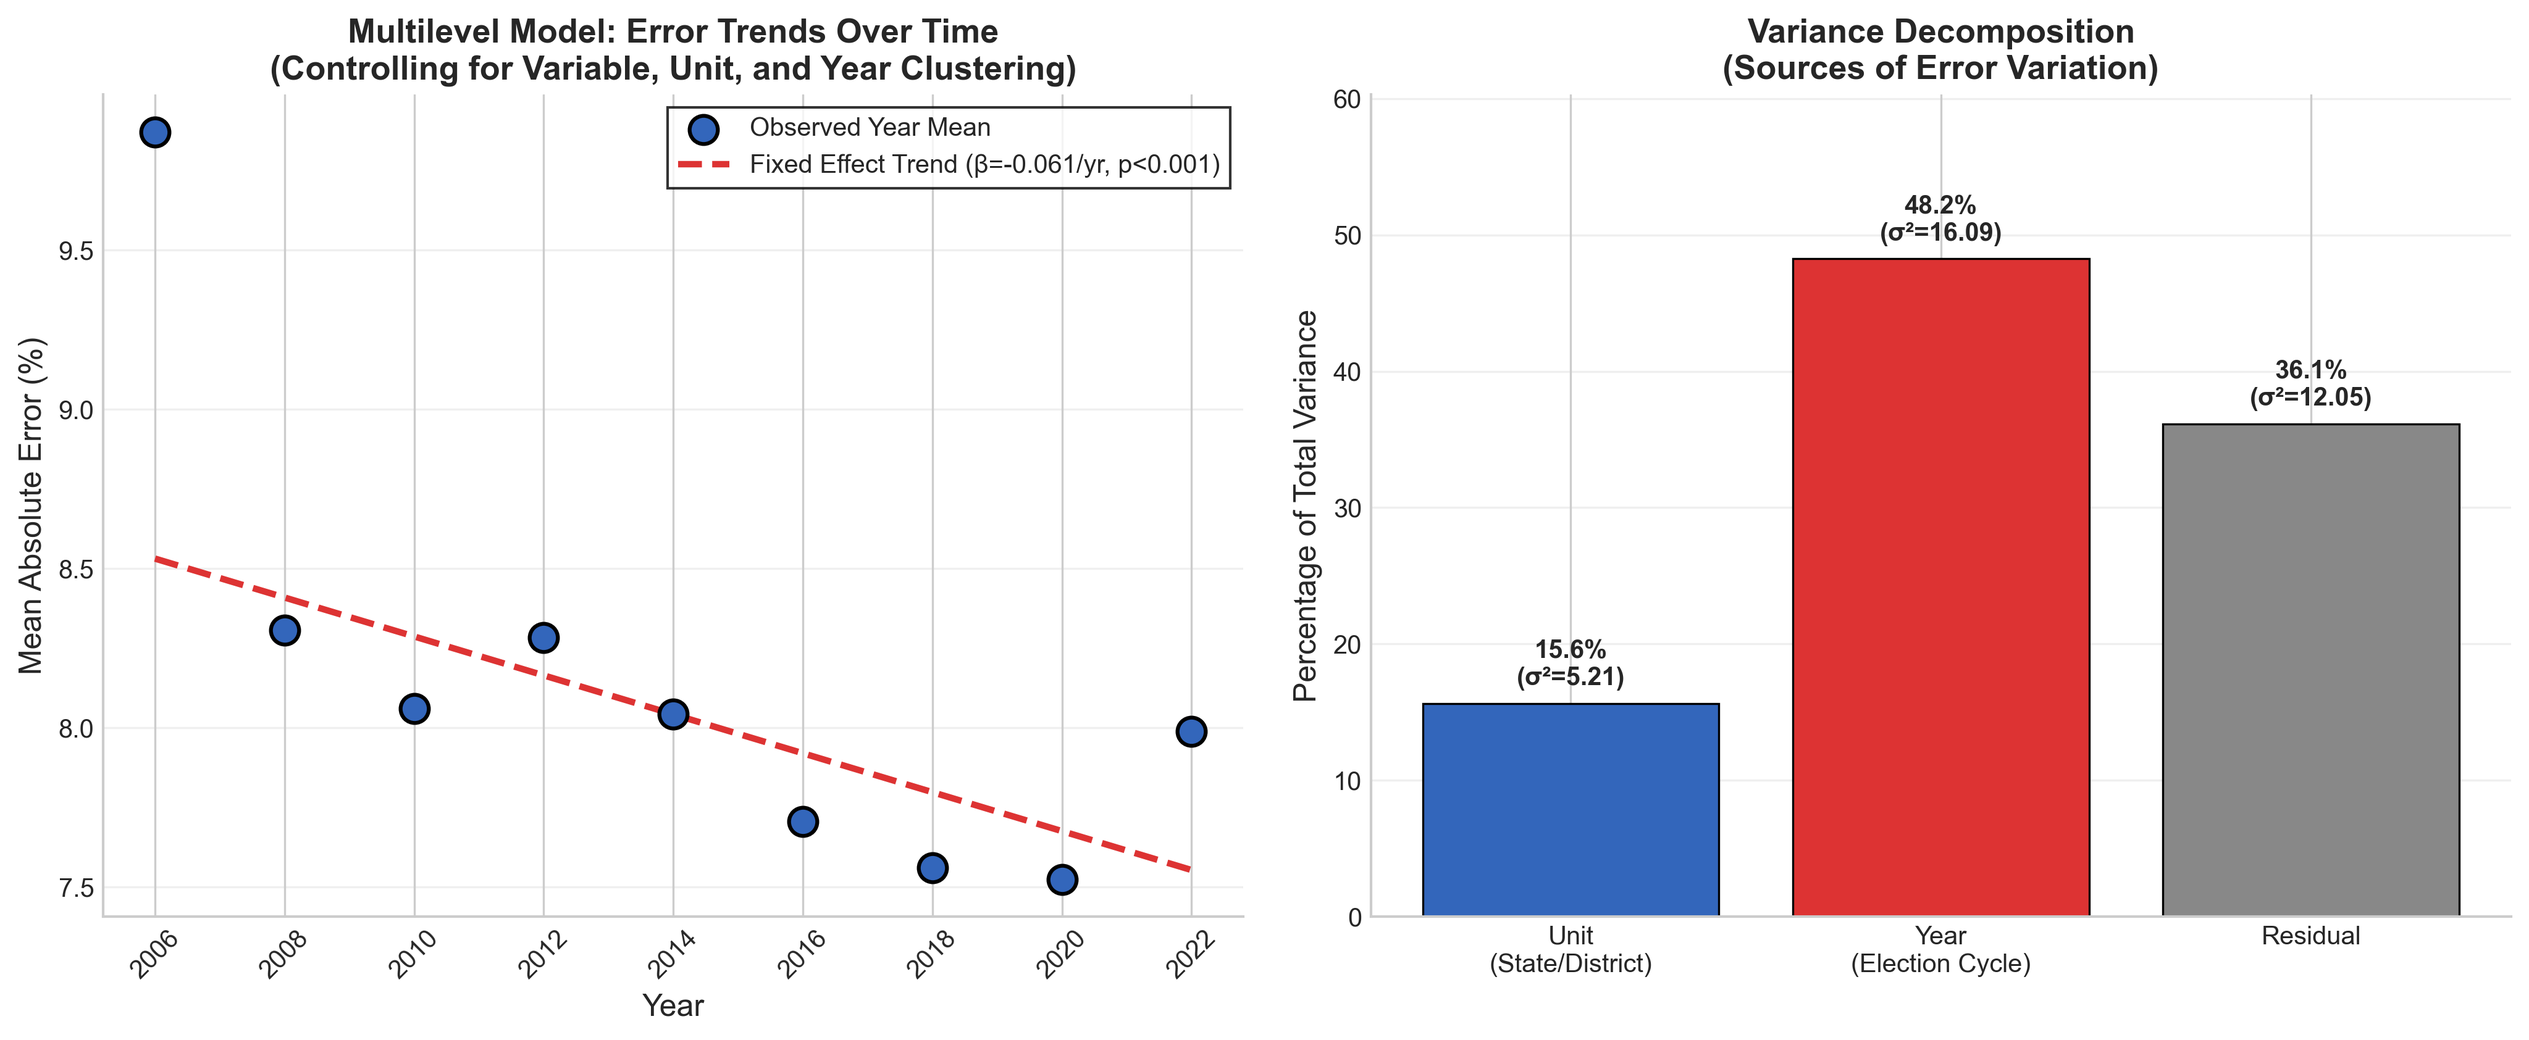
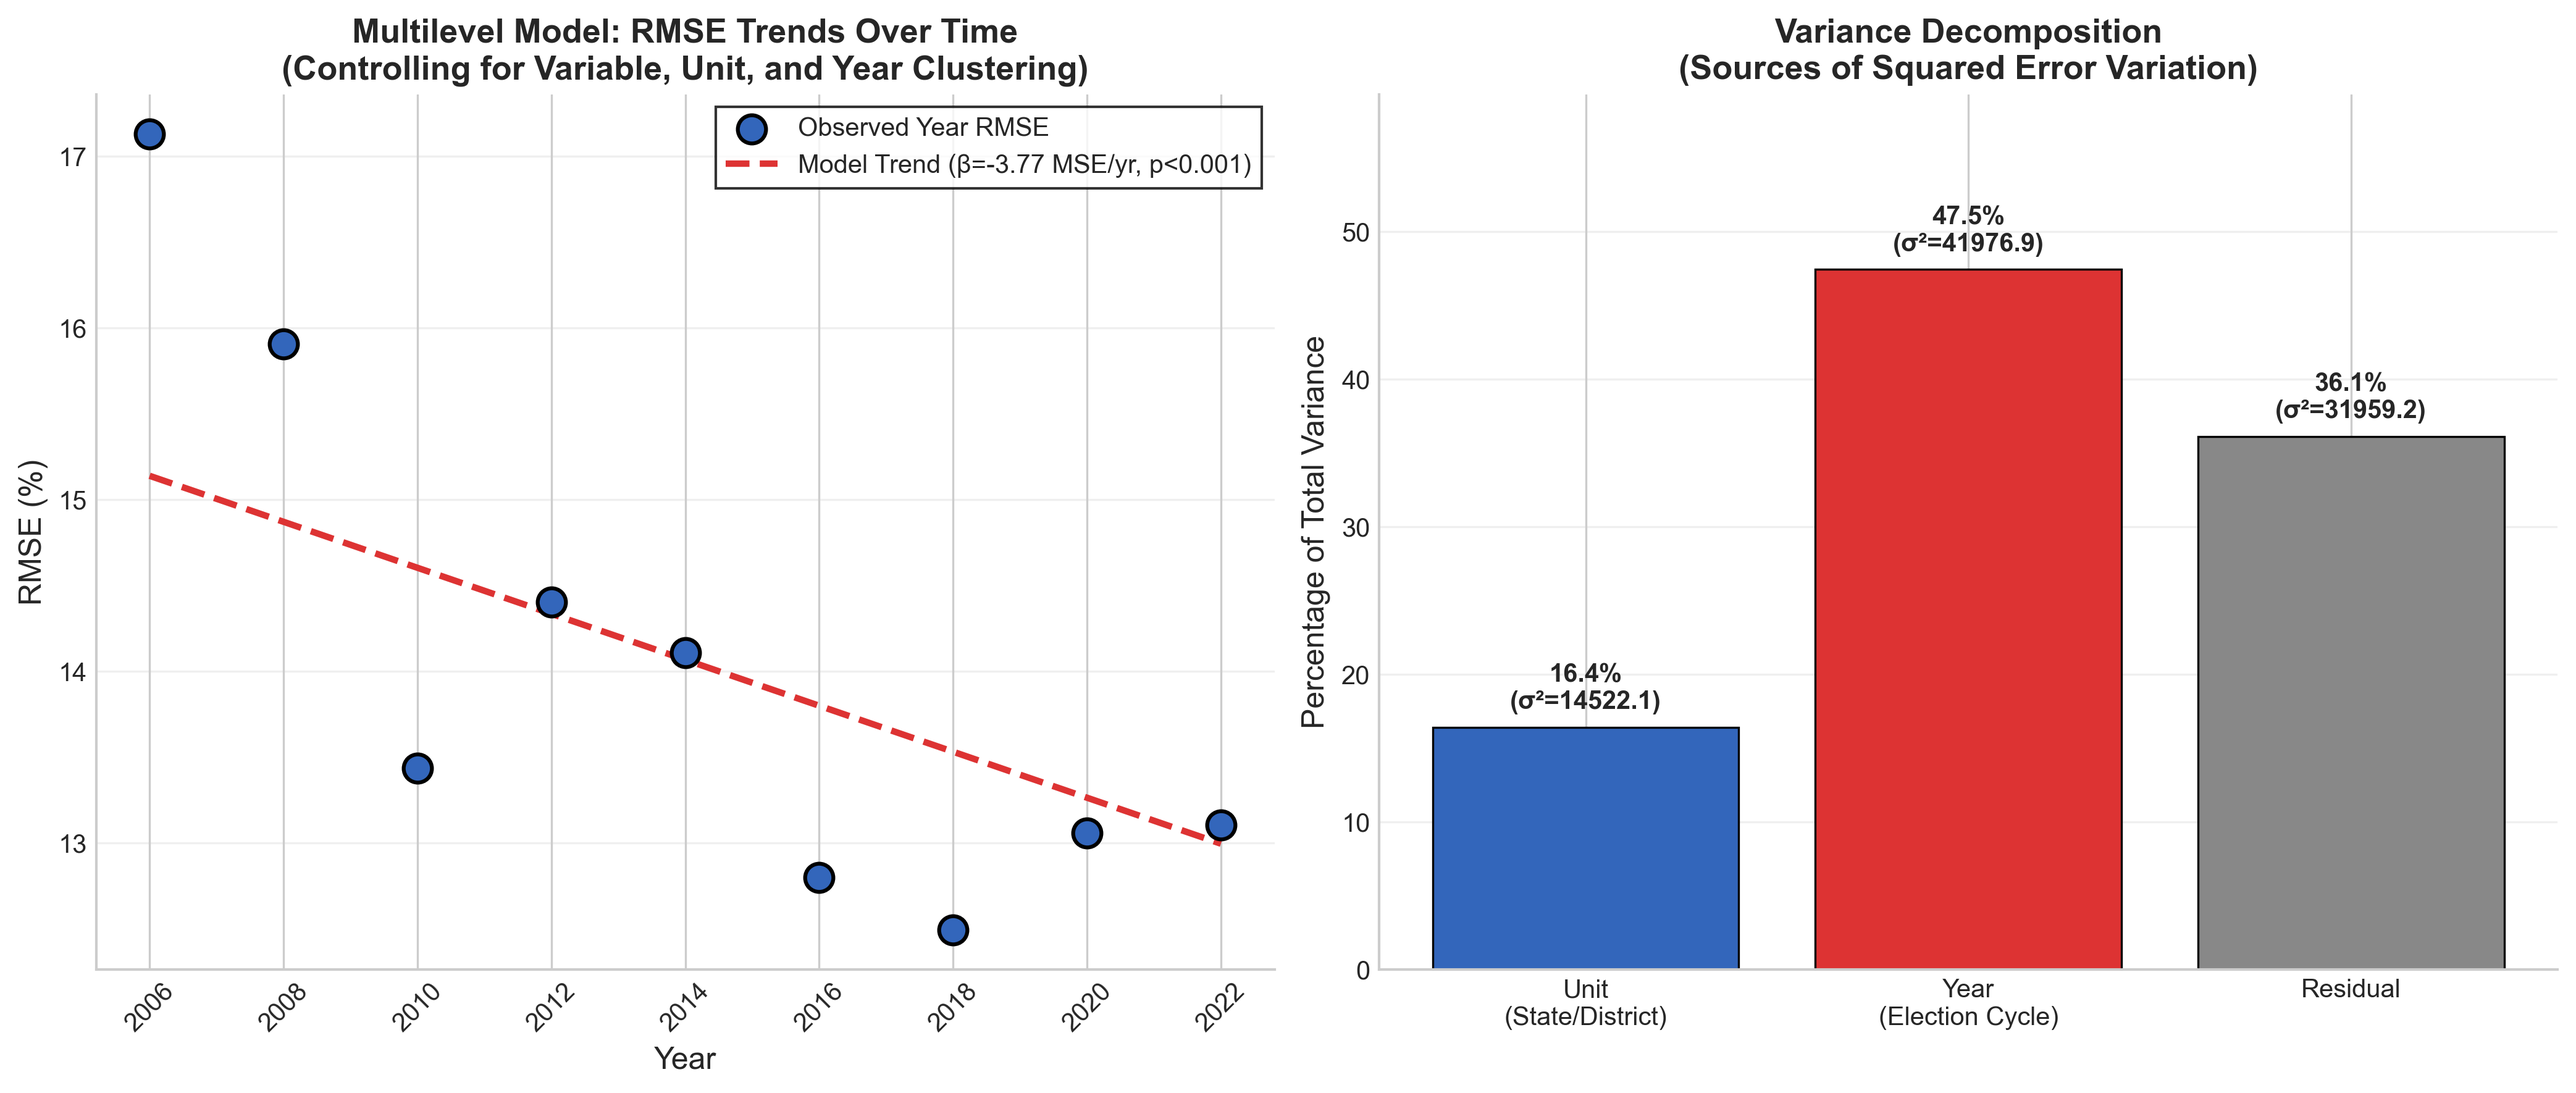
Fix multilevel model to use squared error (RMSE) instead of absolute error (MAE)

diff --git a/tables_and_figures/output/rmse_multilevel_trend.tex b/tables_and_figures/output/rmse_multilevel_trend.tex
@@ -1,7 +1,7 @@
 \begin{table}[!htbp]
 \centering
 \footnotesize
-\caption{Multilevel Model: Error Trends Over Time}
+\caption{Multilevel Model: Squared Error Trends Over Time}
 \label{tab:rmse_multilevel_trend}
 \begin{threeparttable}
 \begin{tabular}{lccc}
@@ -9,23 +9,23 @@
 Parameter & Estimate & SE & p-value \\
 \midrule
 \multicolumn{4}{l}{\textit{Fixed Effects}} \\
-\quad Intercept (at 2014) & 3.275 & 0.404 & <0.001* \\
-\quad Year ($\beta$) & -0.0611 & 0.0108 & <0.001* \\
+\quad Intercept (at 2014) & 18.84 & 21.12 & 0.372 \\
+\quad Year ($\beta$) & -3.769 & 0.553 & <0.001* \\
 \midrule
 \multicolumn{4}{l}{\textit{Variance Components}} \\
-\quad Unit-within-variable ($\sigma^2_{unit}$) & 5.208 & - & - \\
-\quad Year ($\sigma^2_{year}$) & 16.092 & - & - \\
-\quad Residual ($\sigma^2_\varepsilon$) & 12.054 & - & - \\
+\quad Unit-within-variable ($\sigma^2_{unit}$) & 14,522 & - & - \\
+\quad Year ($\sigma^2_{year}$) & 41,977 & - & - \\
+\quad Residual ($\sigma^2_\varepsilon$) & 31,959 & - & - \\
 \midrule
 \multicolumn{4}{l}{\textit{Variance Decomposition}} \\
-\quad ICC (unit) & 0.156 & - & - \\
-\quad ICC (year) & 0.482 & - & - \\
+\quad ICC (unit) & 0.164 & - & - \\
+\quad ICC (year) & 0.475 & - & - \\
 \quad Residual & 0.361 & - & - \\
 \bottomrule
 \end{tabular}
 \begin{tablenotes}
 \footnotesize
-\item \textit{Note:} Multilevel model: AbsError $\sim$ Year + Variable FE + (1|unit\_var) + (1|Year).
+\item \textit{Note:} Multilevel model: SqError $\sim$ Year + Variable FE + (1|unit\_var) + (1|Year).
 \item N = 10,437 observations; 1,470 unit-variable combinations; 21 variables; 9 years.
 \item Variable fixed effects included but not shown. * indicates p < 0.05.
 \end{tablenotes}
